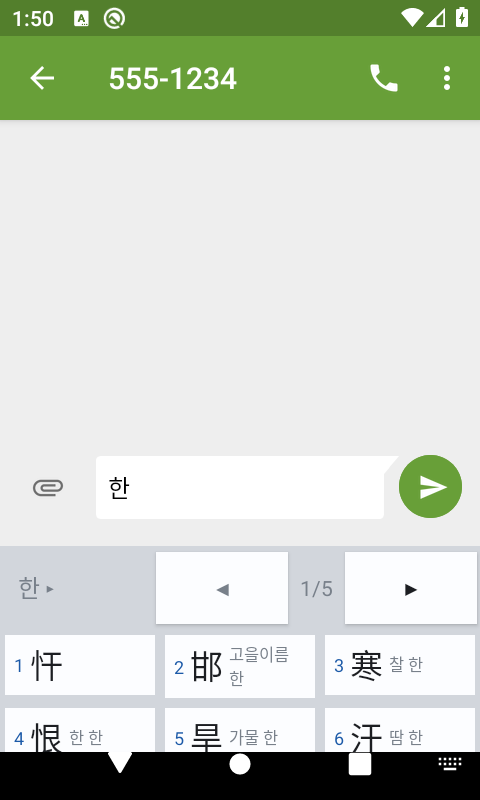
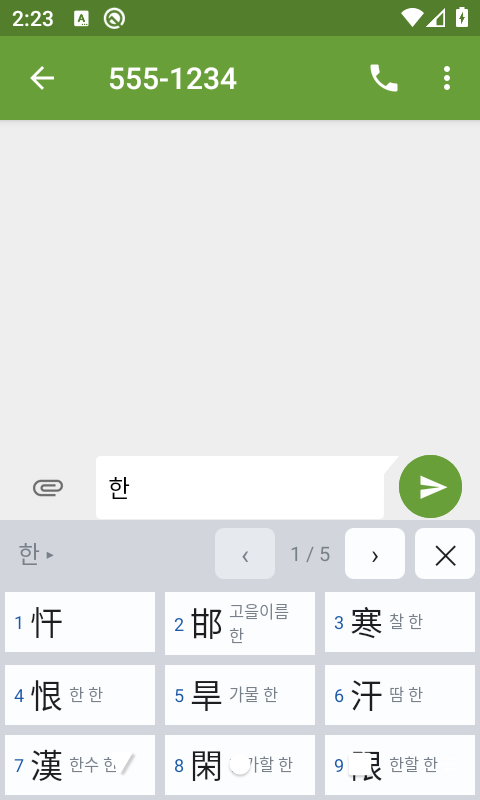
Stop the Hanja panel losing its bottom row, and give it a way out
The panel was showing six candidates out of nine. It is a PopupWindow parented to
the IME window, and a popup attached in its parent's decor is clipped to that
parent's frame — an IME window is only as tall as the keyboard, so a panel taller
than the keyboard had its last row cut off. The device said so plainly once
asked: requested 480x280, `mSystemDecorRect=[0,0][480,182]`, parent 254 tall.
`setAttachedInDecor(false)` takes it out of the decor and all nine show.

Worth saying what this was not: it is not something moving the panel would have
fixed. A child window cannot be dragged outside its parent either.

The header gains a ✕ that leaves without converting — the reading stays as it was
typed, so it is a way out rather than an undo — and it sits at the end, where it
does not move when the page buttons come and go. Those are rounded now, with the
disabled one drawn faintly rather than removed, so the header keeps its shape as
the pages turn and nothing shifts under a thumb already on its way down.

Not fixed, and said out loud in the README and the changelog: the panel can now
sit over an on-screen navigation bar instead of being clipped by the keyboard.
The candidates are visible and the number keys still pick them, but that last row
may not take a tap. Clamping against the window's visible frame did not move it —
the popup's y is not resolved in the space the arithmetic assumes, and that is
written down in BACKLOGS rather than guessed at.
[…]

Changed region(s): [[0.0, 0.625, 1.0, 1.0], [0.0312, 0.0, 0.125, 0.0312]]

diff --git a/app/src/main/java/com/retekey/HanjaCandidatesView.java b/app/src/main/java/com/retekey/HanjaCandidatesView.java
@@ -5,7 +5,6 @@ import android.text.TextUtils;
 import android.util.TypedValue;
 import android.view.Gravity;
 import android.view.View;
-import android.widget.Button;
 import android.widget.LinearLayout;
 import android.widget.TextView;
 import java.util.ArrayList;
@@ -40,6 +39,8 @@ public final class HanjaCandidatesView extends LinearLayout {
     private static final int PAGE_SIZE = COLUMNS * ROWS;
 
     private OnPick listener;
+    /** Run when the user closes the panel without converting anything. */
+    private Runnable onDismiss;
     private String reading = "";
     private List<Item> items = new ArrayList<>();
     private int page;
@@ -54,6 +55,10 @@ public final class HanjaCandidatesView extends LinearLayout {
 
     public void setOnPick(OnPick listener) {
         this.listener = listener;
+    }
+
+    public void setOnDismiss(Runnable onDismiss) {
+        this.onDismiss = onDismiss;
     }
 
     /** Shows candidates for {@code reading}, starting at the first page. */
@@ -150,8 +155,7 @@ public final class HanjaCandidatesView extends LinearLayout {
             0, LinearLayout.LayoutParams.WRAP_CONTENT, 1f));
 
         if (pageCount() > 1) {
-            Button prev = navButton("◀", page > 0);
-            prev.setOnClickListener(v -> {
+            View prev = navButton("‹", page > 0, v -> {
                 if (page > 0) {
                     page--;
                     render();
@@ -160,36 +164,64 @@ public final class HanjaCandidatesView extends LinearLayout {
             header.addView(prev);
 
             TextView pageLabel = new TextView(getContext());
-            pageLabel.setText((page + 1) + "/" + pageCount());
+            pageLabel.setText((page + 1) + " / " + pageCount());
             pageLabel.setTextColor(palette.keyTextMuted);
-            pageLabel.setTextSize(TypedValue.COMPLEX_UNIT_SP, 14);
-            pageLabel.setPadding(dp(6), 0, dp(6), 0);
+            pageLabel.setTextSize(TypedValue.COMPLEX_UNIT_SP, 13);
+            pageLabel.setGravity(Gravity.CENTER);
+            pageLabel.setMinWidth(dp(40));
+            pageLabel.setPadding(dp(2), 0, dp(2), 0);
             header.addView(pageLabel);
 
-            Button next = navButton("▶", page < pageCount() - 1);
-            next.setOnClickListener(v -> {
+            header.addView(navButton("›", page < pageCount() - 1, v -> {
                 if (page < pageCount() - 1) {
                     page++;
                     render();
                 }
-            });
-            header.addView(next);
+            }));
         }
+
+        // Leaving without converting. The reading stays as it was typed — this is a way out, not
+        // an undo — and it is the only control here that is always present, so it sits at the end
+        // where the eye finishes rather than moving about with the page buttons.
+        header.addView(navButton("✕", true, v -> {
+            if (onDismiss != null) {
+                onDismiss.run();
+            }
+        }));
         return header;
     }
 
-    private Button navButton(String glyph, boolean enabled) {
-        Button button = new Button(getContext());
+    /**
+     * A round-cornered control for the panel's header. Disabled ones are drawn faintly rather than
+     * removed, so the header keeps its shape as the pages turn and nothing shifts under a thumb
+     * that is already on its way down.
+     */
+    private View navButton(String glyph, boolean enabled, OnClickListener onClick) {
+        TextView button = new TextView(getContext());
         button.setText(glyph);
-        button.setAllCaps(false);
+        button.setGravity(Gravity.CENTER);
+        button.setTextSize(TypedValue.COMPLEX_UNIT_SP, 18);
         button.setTextColor(enabled ? palette.keyText : palette.keyTextMuted);
-        button.setBackgroundColor(palette.keyFace);
-        button.setMinWidth(dp(44));
+        Compat.setBackground(button, roundedKeyFace(enabled));
+        button.setMinWidth(dp(40));
+        button.setMinHeight(dp(34));
+        if (enabled) {
+            button.setOnClickListener(onClick);
+        }
         LinearLayout.LayoutParams params = new LinearLayout.LayoutParams(
             LinearLayout.LayoutParams.WRAP_CONTENT, LinearLayout.LayoutParams.WRAP_CONTENT);
-        params.setMargins(dp(2), dp(4), dp(2), dp(4));
+        params.setMargins(dp(3), dp(5), dp(3), dp(5));
         button.setLayoutParams(params);
         return button;
+    }
+
+    private android.graphics.drawable.Drawable roundedKeyFace(boolean enabled) {
+        android.graphics.drawable.GradientDrawable face =
+            new android.graphics.drawable.GradientDrawable();
+        face.setShape(android.graphics.drawable.GradientDrawable.RECTANGLE);
+        face.setCornerRadius(dp(6));
+        face.setColor(enabled ? palette.keyFace : palette.keyDisabled);
+        return face;
     }
 
     private LinearLayout buildCell(Item item, int number) {

diff --git a/app/src/main/java/com/retekey/HanjaCandidatesWindow.java b/app/src/main/java/com/retekey/HanjaCandidatesWindow.java
@@ -23,6 +23,8 @@ import java.util.List;
  */
 public final class HanjaCandidatesWindow {
     private static final int GAP_DP = 6;
+    /** No matter where the anchor points, leave at least this much room for the panel itself. */
+    private static final int MIN_PANEL_DP = 120;
     private static final int WRAP_CONTENT = ViewGroup.LayoutParams.WRAP_CONTENT;
 
     private final Context context;
@@ -31,10 +33,12 @@ public final class HanjaCandidatesWindow {
     private int panelHeight;
     private int panelWidth;
 
-    public HanjaCandidatesWindow(Context context, HanjaCandidatesView.OnPick onPick) {
+    public HanjaCandidatesWindow(Context context, HanjaCandidatesView.OnPick onPick,
+                                 Runnable onDismiss) {
         this.context = context;
         this.view = new HanjaCandidatesView(context);
         this.view.setOnPick(onPick);
+        this.view.setOnDismiss(onDismiss);
         this.popup = new PopupWindow(
             view, context.getResources().getDisplayMetrics().widthPixels, WRAP_CONTENT);
         // Never focusable: the service must keep receiving key events while the panel is up.
@@ -42,6 +46,11 @@ public final class HanjaCandidatesWindow {
         popup.setTouchable(true);
         popup.setOutsideTouchable(false);
         popup.setClippingEnabled(true);
+        // The popup is a child of the IME window, and a child laid out "in decor" is clipped to
+        // its parent's frame — an IME window is only as tall as the keyboard, so a panel taller
+        // than that lost its bottom rows to the clip. Detaching it from the decor lets it be
+        // placed against the screen instead, which is the space its coordinates are computed in.
+        Compat.setAttachedInDecor(popup, false);
         popup.setBackgroundDrawable(new ColorDrawable(0x00000000));
         Compat.setElevation(popup, dp(context, 8));
     }
@@ -59,22 +68,35 @@ public final class HanjaCandidatesWindow {
         }
         view.show(reading, items);
         int screenWidth = context.getResources().getDisplayMetrics().widthPixels;
-        int screenHeight = context.getResources().getDisplayMetrics().heightPixels;
+        // The area the system bars leave, asked of the window rather than of the display: a
+        // service's display metrics do not have the navigation bar taken out of them, and placing
+        // the panel against the raw display height puts its last row under the system buttons.
+        android.graphics.Rect visible = new android.graphics.Rect();
+        anchor.getWindowVisibleDisplayFrame(visible);
+        int screenHeight = visible.bottom > 0
+            ? visible.bottom
+            : context.getResources().getDisplayMetrics().heightPixels;
         // The panel spans the keyboard it belongs to, edge to edge, so the glosses have room.
         int width = keyboardWidth > 0 ? Math.min(keyboardWidth, screenWidth) : screenWidth;
         int x = Math.max(0, Math.min(keyboardLeft, screenWidth - width));
-        int bottom = keyboardTop > 0 && keyboardTop <= screenHeight
-            ? keyboardTop - dp(context, GAP_DP)
+        // Where the panel's bottom edge goes. The anchor can point below the usable screen — a
+        // collapsed keyboard reports a top near the bottom of the IME window, which is past the
+        // navigation bar — so it is clamped. Without this the panel is placed by a bottom that
+        // does not exist and its last row is drawn underneath the navigation bar.
+        int bottom = keyboardTop > 0
+            ? Math.min(keyboardTop - dp(context, GAP_DP), screenHeight)
             : screenHeight - dp(context, 48);
+        bottom = Math.max(dp(context, MIN_PANEL_DP), bottom);
         // Measure first so the panel can be placed by its bottom edge rather than its top.
         view.measure(
             View.MeasureSpec.makeMeasureSpec(width, View.MeasureSpec.EXACTLY),
-            View.MeasureSpec.makeMeasureSpec(screenHeight, View.MeasureSpec.AT_MOST)
+            View.MeasureSpec.makeMeasureSpec(bottom, View.MeasureSpec.AT_MOST)
         );
         // The window keeps the height its first page needed. A later page with fewer than nine
         // candidates then leaves empty space instead of resizing the window under the user's
-        // finger — and cannot be re-measured into something the size of the screen.
-        panelHeight = Math.min(view.getMeasuredHeight(), screenHeight);
+        // finger — and cannot be re-measured into something the size of the screen. It can never
+        // be taller than the room above `bottom`, which is what keeps every row on screen.
+        panelHeight = Math.min(view.getMeasuredHeight(), bottom);
         panelWidth = width;
         int y = Math.max(0, bottom - panelHeight);
         if (popup.isShowing()) {

diff --git a/app/src/main/java/com/retekey/Compat.java b/app/src/main/java/com/retekey/Compat.java
@@ -73,6 +73,31 @@ public final class Compat {
     }
 
     /**
+     * A view's background. {@code setBackground} is API 16; below it the same drawable goes in
+     * through the deprecated setter, which is the only one Android 4.0 has.
+     */
+    @SuppressWarnings("deprecation")
+    public static void setBackground(android.view.View view, android.graphics.drawable.Drawable d) {
+        if (Build.VERSION.SDK_INT >= Build.VERSION_CODES.JELLY_BEAN) {
+            view.setBackground(d);
+        } else {
+            view.setBackgroundDrawable(d);
+        }
+    }
+
+    /**
+     * Whether a popup is laid out inside its parent window's decor. A popup attached in the decor
+     * is clipped to that parent, which for an IME child window means clipped to the keyboard's own
+     * height. {@code setAttachedInDecor} is API 22; below it a popup is not attached in the decor
+     * anyway, so there is nothing to turn off.
+     */
+    public static void setAttachedInDecor(PopupWindow popup, boolean attached) {
+        if (Build.VERSION.SDK_INT >= Build.VERSION_CODES.LOLLIPOP_MR1) {
+            popup.setAttachedInDecor(attached);
+        }
+    }
+
+    /**
      * The language of a BCP-47 tag. {@code Locale.forLanguageTag} is API 21, and all this code
      * needs is the part before the first separator — "ko" out of "ko-KR".
      */

diff --git a/app/src/main/java/com/retekey/ReteKeyImeService.java b/app/src/main/java/com/retekey/ReteKeyImeService.java
@@ -711,7 +711,7 @@ public class ReteKeyImeService extends InputMethodService {
             return false;
         }
         if (hanjaWindow == null) {
-            hanjaWindow = new HanjaCandidatesWindow(this, this::commitHanja);
+            hanjaWindow = new HanjaCandidatesWindow(this, this::commitHanja, this::hideHanjaCandidates);
         }
         int[] frame = keyboardFrameOnScreen();
         hanjaWindow.show(anchor, pendingReading, pendingCandidates, frame[0], frame[1], frame[2]);

diff --git a/README.ko.md b/README.ko.md
@@ -30,8 +30,8 @@
 **[⬇ 안드로이드 4.0 이상](https://github.com/rubidus-api/retekey_apk/releases/latest/download/retekey-legacy.apk)**
 &nbsp;·&nbsp; [전체 릴리즈](https://github.com/rubidus-api/retekey_apk/releases)
 
-현재 릴리즈: **v0.1.69** —
-[retekey-0.1.69.apk](https://github.com/rubidus-api/retekey_apk/releases/download/v0.1.69/retekey-0.1.69.apk)
+현재 릴리즈: **v0.1.70** —
+[retekey-0.1.70.apk](https://github.com/rubidus-api/retekey_apk/releases/download/v0.1.70/retekey-0.1.70.apk)
 
 설치한 뒤 *설정 → 키보드*에서 ReteKey를 활성화하고 기본 입력기로 선택한다. 앱 실행 화면에 두 단계로 가는
 바로가기와, 키보드를 시험해 볼 입력란이 있다.
@@ -281,7 +281,16 @@ F13–F15 와 미디어키·뒤로가기는 비활성 상태로 둔다:
 오른쪽에 붙고(家 집 가), 칸이 좁으면 두 줄로 접힌다. 이 창은 키보드의 일부가 아니므로 화면 키보드,
 화면에 키보드가 아예 없는 외장 키보드, 플로팅 패널 어디서나 똑같이 뜨며, 떠 있는 동안 크기를 유지하므로
 마지막 짧은 페이지에서 창이 흔들리지 않는다. 후보를 탭하거나 숫자키 **1**–**9**로
-고를 수 있고, `←`/`→`와 `PageUp`/`PageDown`으로 페이지를 넘기며 `Esc`로 닫는다.
+고를 수 있고, 헤더의 `‹`/`›` 또는 키보드의 `←`/`→`·`PageUp`/`PageDown` 으로 페이지를 넘긴다.
+**✕** 를 누르면 변환하지 않고 빠져나온다(`Esc` 와 같다). 입력한 글자는 친 그대로 남는다 — 취소가
+아니라 나가기다.
+
+![한자 후보 창](assets/keyboard-hanja.png)
+
+> **알려진 제약.** 화면 내비게이션 바가 있는 기기에서는 패널의 마지막 줄이 그 위로 걸칠 수 있다.
+> 후보는 보이고 숫자키로도 고를 수 있지만 그 줄은 탭이 안 먹을 수 있다. 이 패널은 키보드 창의 자식
+> 창이라 예전에는 아예 잘려 나갔는데(줄 하나가 통째로 사라졌다) 그것은 고쳤고, 시스템 바를 피해
+> 놓는 것은 아직이다.
 
 사전은 앱에 포함되어 있으며 메모리로 올리지 않고 있는 자리에서 찾는다. 정렬된 파일을 APK에서 그대로
 메모리 매핑해 조회마다 이진 탐색하므로 자바 힙을 쓰지 않고, 메모리가 부족하면 커널이 해당 페이지를

diff --git a/README.md b/README.md
@@ -31,8 +31,8 @@ dependencies — the release APK is about 460 KB, most of it the Hanja tables.
 **[⬇ Android 4.0+](https://github.com/rubidus-api/retekey_apk/releases/latest/download/retekey-legacy.apk)**
 &nbsp;·&nbsp; [all releases](https://github.com/rubidus-api/retekey_apk/releases)
 
-Current release: **v0.1.69** —
-[retekey-0.1.69.apk](https://github.com/rubidus-api/retekey_apk/releases/download/v0.1.69/retekey-0.1.69.apk)
+Current release: **v0.1.70** —
+[retekey-0.1.70.apk](https://github.com/rubidus-api/retekey_apk/releases/download/v0.1.70/retekey-0.1.70.apk)
 
 After installing, enable ReteKey in *Settings → Keyboards* and select it as the default input
 method. The app's launcher screen has shortcuts for both steps and a field for trying the keyboard.
@@ -300,7 +300,16 @@ nine. Each 훈음 gloss sits beside its character (家 집 가) and wraps onto a
 column is narrow. The window is not part of the keyboard, so it appears the same way for the
 on-screen keyboard, an external keyboard with no keyboard on screen at all, and the floating panel;
 it keeps one size while it is up, so a short last page does not resize it. Tap a candidate, or
-press its number key **1**–**9**; `←`/`→` and `PageUp`/`PageDown` turn the page and `Esc` dismisses.
+press its number key **1**–**9**; `‹`/`›` in the header — or `←`/`→` and `PageUp`/`PageDown` on a
+keyboard — turn the page, and **✕** leaves without converting, as `Esc` does. What you typed stays
+as you typed it: it is a way out, not an undo.
+
+![Hanja candidates](assets/keyboard-hanja.png)
+
+> **Known limitation.** On a device with an on-screen navigation bar the panel's last row can end up
+> over it. The candidates are visible and the number keys still pick them, but that row may not take
+> a tap. The panel is a child of the keyboard's window and used to be clipped to it — losing the row
+> entirely — which is fixed; placing it clear of the system bars is not.
 
 The dictionary is bundled and searched where it lies: the tables are sorted files, memory-mapped
 out of the APK and bisected per lookup, so they cost the Java heap nothing and the kernel is free to
